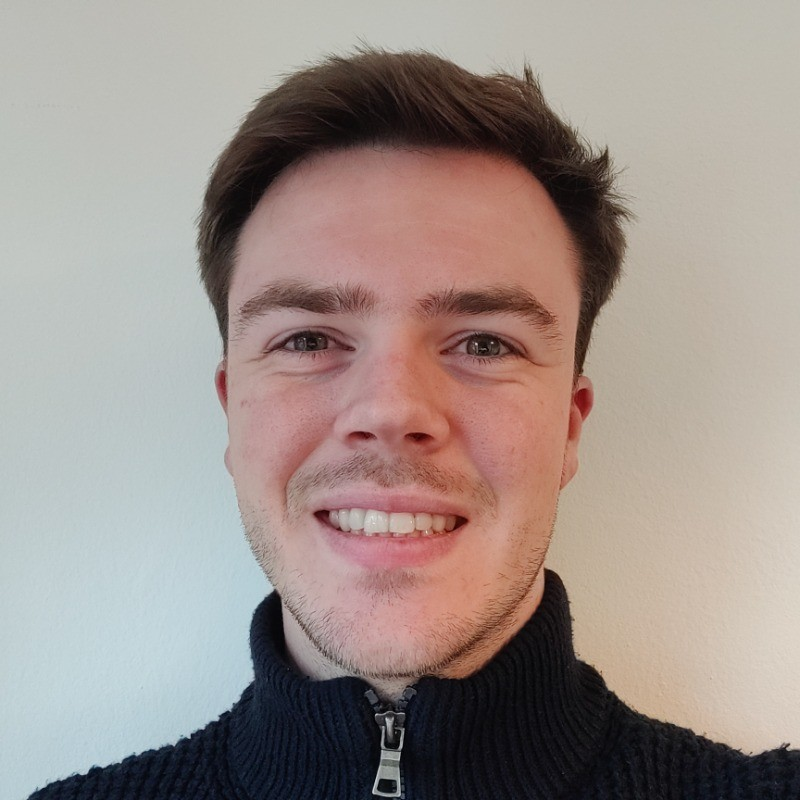
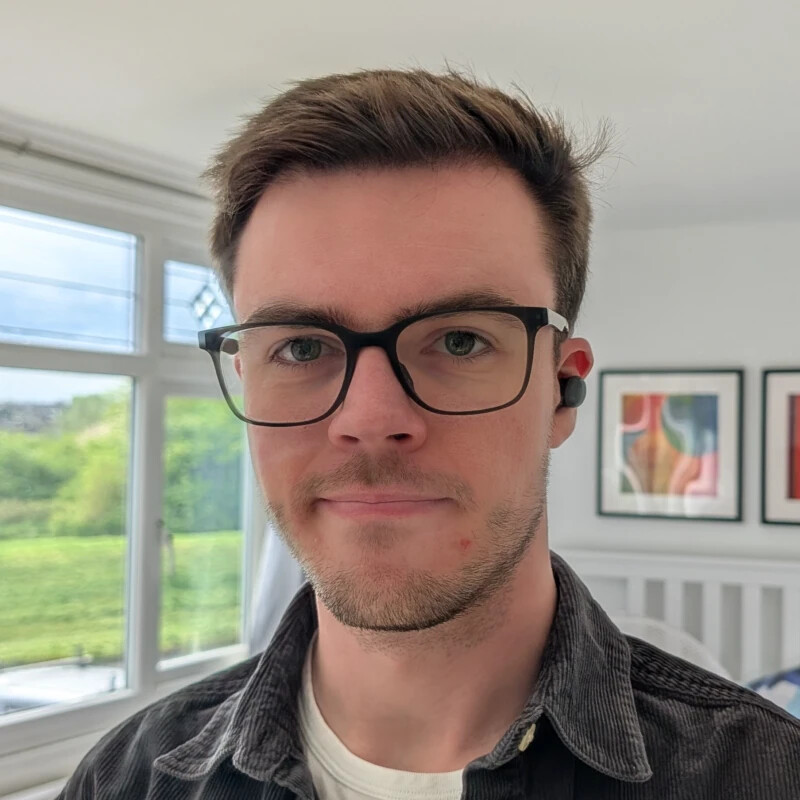
feat(pages): refresh home and contact photos and drop mention of pip
Claude-Session: https://claude.ai/code/session_017xcAbpPYT5W1JLduZLV8J7

diff --git a/resources/views/contact.blade.php b/resources/views/contact.blade.php
@@ -13,11 +13,11 @@
         <x-card>
             <div class="flex flex-col md:flex-row">
                 <div class="md:w-1/3 mb-6 md:mb-0 md:mr-6">
-                    <x-img src="resources/img/adam-and-pip.jpg" sizes="(min-width: 768px) 33vw, 100vw" alt="Adam eating a meal with Pip the dog cheekily hoping to get a bite of chicken" class="rounded-lg shadow-lg w-full" />
+                    <x-img src="resources/img/adam-outdoors.jpg" sizes="(min-width: 768px) 33vw, 100vw" alt="Adam smiling on a mountain path" class="rounded-lg shadow-lg w-full" />
                 </div>
                 <div class="md:w-2/3">
                     <h3>Contact Adam</h3>
-                    <p>Get in contact below. My furry assistant, Pip, will endeavour to get back to you between mealtimes and snooze-times.</p>
+                    <p>Get in contact below and I'll get back to you as soon as I can.</p>
                     <form action="{{ route('contact.submit') }}" method="POST" class="space-y-4 flex flex-col">
                         @csrf
 
